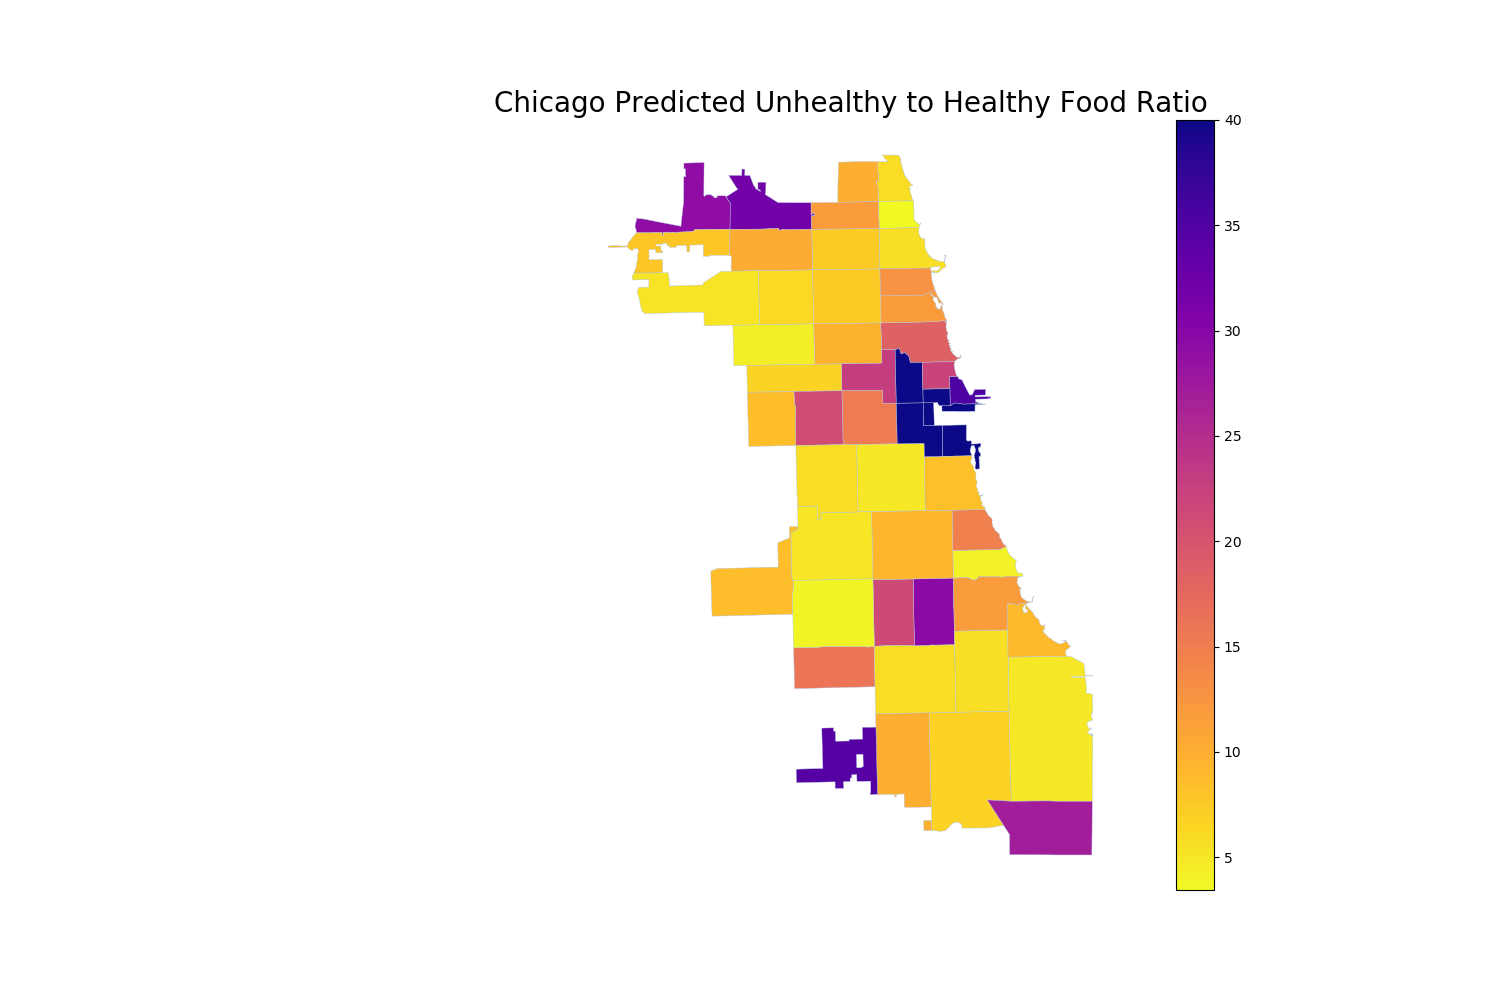
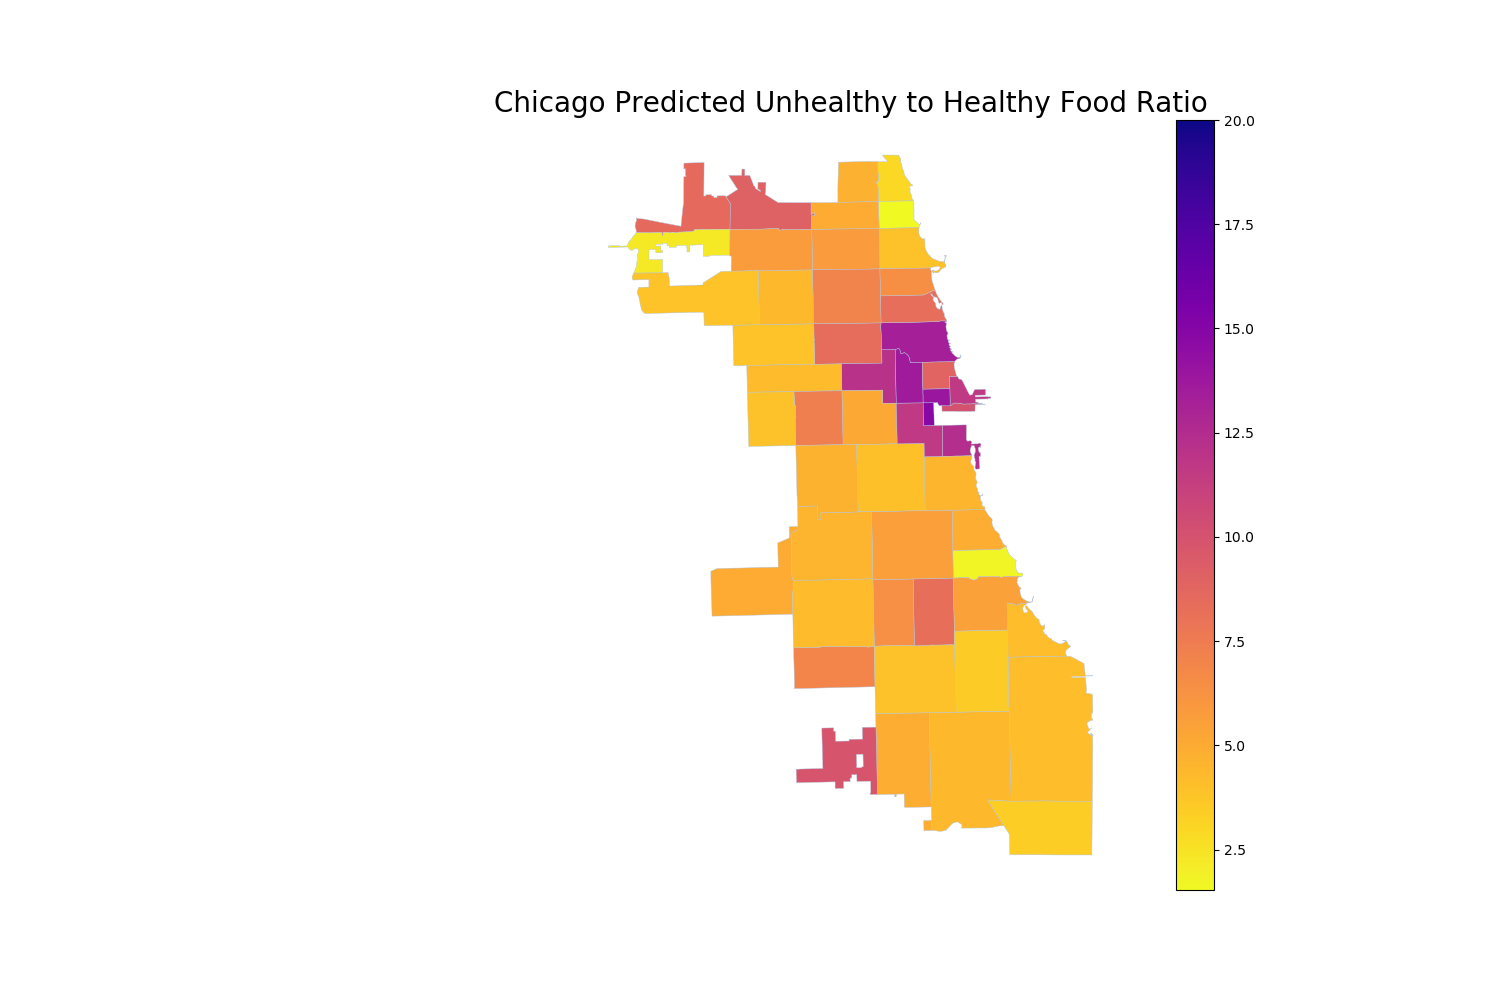
Update static maps

Changed region(s): [[0.3987, 0.155, 0.736, 0.868], [0.5213, 0.713, 0.5827, 0.806], [0.7973, 0.527, 0.828, 0.558]]

diff --git a/chifood/static_maps.py b/chifood/static_maps.py
@@ -56,12 +56,12 @@ def gen_layers(map, var, output_filename, color, name, threshold=500):
 
 def go():
     covid_map = gen_basemap(ZIP_BOUNDARIES, ALL_DATA, "death_rate_cumulative")
-    ratio_map = gen_basemap(ZIP_BOUNDARIES, ALL_DATA, "ratio_per")
-    predict_ratio_map = gen_basemap(ZIP_BOUNDARIES, ALL_DATA, "pr_food_per")
+    ratio_map = gen_basemap(ZIP_BOUNDARIES, ALL_DATA, "fs_ratio")
+    predict_ratio_map = gen_basemap(ZIP_BOUNDARIES, ALL_DATA, "pr_fs_ratio")
     gen_layers(covid_map, "death_rate_cumulative", "COVID Death Rate.png", 
             "Blues", 'Chicago COVID-19 Death Rates', 310)
-    gen_layers(ratio_map, "ratio_per", "Food Insecurity Ratio.png",
-            'plasma_r', 'Chicago Unhealthy to Healthy Food Ratio',  40)
-    gen_layers(predict_ratio_map, "pr_food_per", "Predicted Food Insecurity Ratio.png"
-            , 'plasma_r', 'Chicago Predicted Unhealthy to Healthy Food Ratio', 40)
+    gen_layers(ratio_map, "fs_ratio", "Food Insecurity Ratio.png",
+            'plasma_r', 'Chicago Unhealthy to Healthy Food Ratio',  20)
+    gen_layers(predict_ratio_map, "pr_fs_ratio", "Predicted Food Insecurity Ratio.png"
+            , 'plasma_r', 'Chicago Predicted Unhealthy to Healthy Food Ratio', 20)
 
